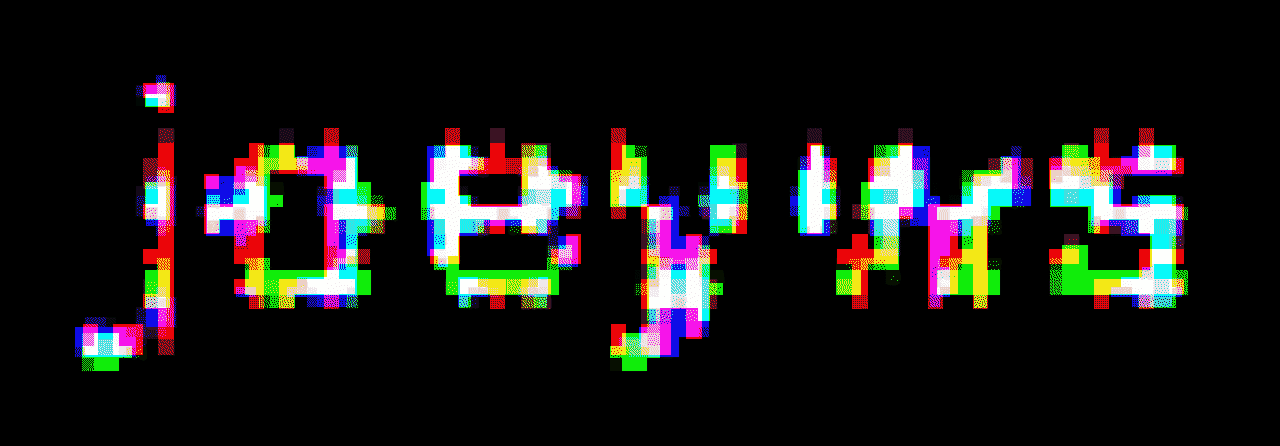
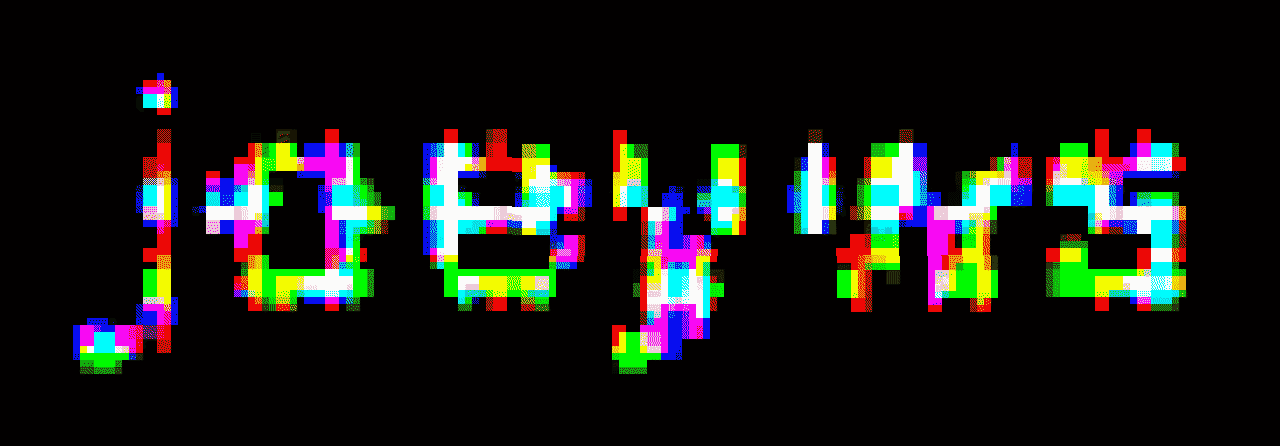
Update

diff --git a/index.html b/index.html
@@ -22,7 +22,7 @@
     /* RESET */ *{text-decoration-thickness:.01em;text-underline-offset:3px;text-decoration-skip-ink:none;font-kerning:normal;outline:none;}html{height:100%;}html,body,div,span,applet,object,iframe,h1,h2,h3,h4,h5,h6,p,hr,blockquote,pre,a,abbr,acronym,address,big,cite,code,del,dfn,em,input,textarea,img,ins,kbd,q,s,samp,small,strike,strong,sub,sup,tt,var,b,u,i,center,dl,dt,dd,ol,ul,li,fieldset,form,label,legend,table,caption,tbody,tfoot,thead,tr,th,td,article,aside,canvas,details,embed,figure,figcaption,footer,header,hgroup,menu,nav,output,ruby,section,summary,time,mark,audio,video,progress{margin:0;padding:0;border:0;font-size:100%;font:inherit;letter-spacing:inherit;color:inherit;text-indent:0;vertical-align:baseline;background:transparent;}body{line-height:1;}table{border-collapse:collapse;border-spacing:0;}caption,th,td{text-align:left;font-weight:normal;vertical-align:middle;}q,blockquote{quotes:none;}q:before,q:after,blockquote:before,blockquote:after{content:"";}article,aside,details,figcaption,figure,footer,header,hgroup,menu,nav,section,summary{display:block;}*{box-sizing:content-box;border-radius:0;/* -webkit-tap-highlight-color:rgba(0,0,0,0);-webkit-border-radius:0;-webkit-text-size-adjust:none;-webkit-appearance:none;font-smoothing:antialiased;-moz-osx-font-smoothing:grayscale;-moz-font-smoothing:antialiased;-webkit-font-smoothing:antialiased; */}
 	html{font-size:13px;}
     body{padding:var(--spacer);overflow-y:scroll;color:var(--text);background:var(--background);font:normal normal 1rem/1.3em webfont,monospace;}
-    h1{display:inline-block;}
+    h1,h2{display:inline-block;}
     i{font-style:italic;}
     h2,p,pre,table,#map{margin-top:.8rem;}
     hr+*,img+p,.content *:first-child{margin-top:0;}
@@ -42,9 +42,9 @@
     nav a{display:inline-block;border-right:1px solid var(--background);background-clip:padding-box;} nav a:last-child{border:0;}
     @media (max-width:500px) {#header{flex-direction:column;}}
     /* MARQUEE */
-    .marquee{background:#0f0;color:var(--background);transition:.2s width ease-out;line-height:1.4em;box-sizing:border-box;margin:calc(-1 * var(--spacer));margin-bottom:var(--spacer);width:1px;overflow:hidden;white-space:nowrap;position:relative;display:block;user-select:none;}
+    .marquee{background:#0f0;color:var(--background);transition:.2s width ease-out;line-height:1.4em;box-sizing:border-box;margin:calc(-1 * var(--spacer));margin-bottom:var(--spacer);width:1px;overflow:hidden;white-space:nowrap;display:block;user-select:none;}
     .marquee-track{display:inline-flex;white-space:nowrap;will-change:transform;animation:marquee 50s linear infinite;}
-    .marquee-track span{padding-right:2.2rem;}
+    .marquee-track span{padding-right:2.4rem;}
     @keyframes marquee{from{transform:translateX(0);}to{transform:translateX(-100%);}}
     /* VIDEO */
     .video{overflow:hidden;position:relative;width:800px;max-width:100%;aspect-ratio: 2.2 / 1;font-size:0;line-height:0;user-select:none;}
@@ -73,7 +73,6 @@
     #map:after{top:23%;left:52.5%;outline:1px solid #0f0;background:#0f0;box-shadow:0 3px 8px #000;animation:map 1.2s infinite ease-out;width:7px;height:7px;border-radius:100vmax;pointer-events:none;position:absolute;transform:translate(-50%,-50%);display:block;content:"";}
     #cursor{width:12px;height:12px;background:#fff1;backdrop-filter:blur(20px) invert(100%) saturate(10);-webkit-backdrop-filter:blur(20px) invert(100%) saturate(10);border-radius:100vmax;position:fixed;top:-50px;left:50%;transform:translate(-50%,-50%);font-size:0;line-height:0;z-index:99999999;pointer-events:none;}*{cursor:none !important;}
     /* GAMING */
-    #pubg{}
     .pubg-card{width:500px;margin:0 auto;/* margin-bottom:var(--spacer);border-top:1px solid var(--text);padding:var(--spacer) 0; */}
 </style>
 </head>
@@ -93,7 +92,7 @@
 <hr>
 <main>
 <div class="content" id="index">
-    <img src="img/joeyws2.png" alt="joeyws" style="position:fixed;top:50%;left:50%;transform:translate(-50%,-50%);width:1200px;max-width:70%;display:block;z-index:-1;pointer-events:none;user-select:none;">
+    <img src="img/joeyws.png" alt="joeyws" style="mix-blend-mode:screen;position:fixed;top:50%;left:50%;transform:translate(-50%,-50%);width:1200px;max-width:70%;display:block;z-index:-1;pointer-events:none;user-select:none;">
 </div>
 <div class="content" id="works">
     <div class="video">
@@ -193,6 +192,7 @@
     </p>
 </div>
 <div class="content" id="gaming">
+    <h2>Gaming</h2>
     Add <a href="https://steamcommunity.com/id/joeyws2/">joeyws2</a> on Steam
     <hr>
     <h2 style="text-align:center;">joeyws2’s last PUBG Matches</h2>

diff --git a/alt/extra_content.html b/alt/extra_content.html
@@ -259,3 +259,71 @@ VANTA.FOG({
         renderer.setSize(window.innerWidth, window.innerHeight);
     });
 </script> -->
+
+
+
+<style>
+    canvas{position:fixed;inset:0;z-index:-2;display:block;}
+</style>
+<script src="https://cdnjs.cloudflare.com/ajax/libs/three.js/r134/three.min.js"></script>
+<script>
+    const scene = new THREE.Scene();
+    const camera = new THREE.PerspectiveCamera(75, window.innerWidth / window.innerHeight, 0.1, 1000);
+    const renderer = new THREE.WebGLRenderer({ antialias: true });
+    renderer.setSize(window.innerWidth, window.innerHeight);
+    document.body.appendChild(renderer.domElement);
+    const material = new THREE.LineBasicMaterial({ color: 0x222222 });
+    const globeRadius = 20;
+    const latLines = 8;
+    const lonLines = 12;
+    const globe = new THREE.Group();
+    for (let i = 1; i < latLines; i++) {
+        const lat = (i / latLines - 0.5) * Math.PI;
+        const points = [];
+        const segments = 64;
+        for (let j = 0; j <= segments; j++) {
+            const theta = (j / segments) * 2 * Math.PI;
+            const x = globeRadius * Math.cos(lat) * Math.cos(theta);
+            const y = globeRadius * Math.sin(lat);
+            const z = globeRadius * Math.cos(lat) * Math.sin(theta);
+            points.push(new THREE.Vector3(x, y, z));
+        }
+        const lineGeom = new THREE.BufferGeometry().setFromPoints(points);
+        const line = new THREE.Line(lineGeom, material);
+        globe.add(line);
+    }
+    for (let i = 0; i < lonLines; i++) {
+        const lon = (i / lonLines) * 2 * Math.PI;
+        const points = [];
+        const segments = 64;
+        for (let j = 0; j <= segments; j++) {
+            const theta = (j / segments) * Math.PI; // 0 .. π
+            const x = globeRadius * Math.sin(theta) * Math.cos(lon);
+            const y = globeRadius * Math.cos(theta);
+            const z = globeRadius * Math.sin(theta) * Math.sin(lon);
+            points.push(new THREE.Vector3(x, y, z));
+        }
+        const lineGeom = new THREE.BufferGeometry().setFromPoints(points);
+        const line = new THREE.Line(lineGeom, material);
+        globe.add(line);
+    }
+    scene.add(globe);
+    let angle = 0;
+    const camRadius = 50;
+    const camHeight = 0;
+    function animate() {
+        requestAnimationFrame(animate);
+        angle += 0.002;
+        camera.position.x = Math.cos(angle) * camRadius;
+        camera.position.z = Math.sin(angle) * camRadius;
+        camera.position.y = camHeight;
+        camera.lookAt(0, 0, 0);
+        renderer.render(scene, camera);
+    }
+    animate();
+    window.addEventListener("resize", () => {
+        camera.aspect = window.innerWidth / window.innerHeight;
+        camera.updateProjectionMatrix();
+        renderer.setSize(window.innerWidth, window.innerHeight);
+    });
+</script>
